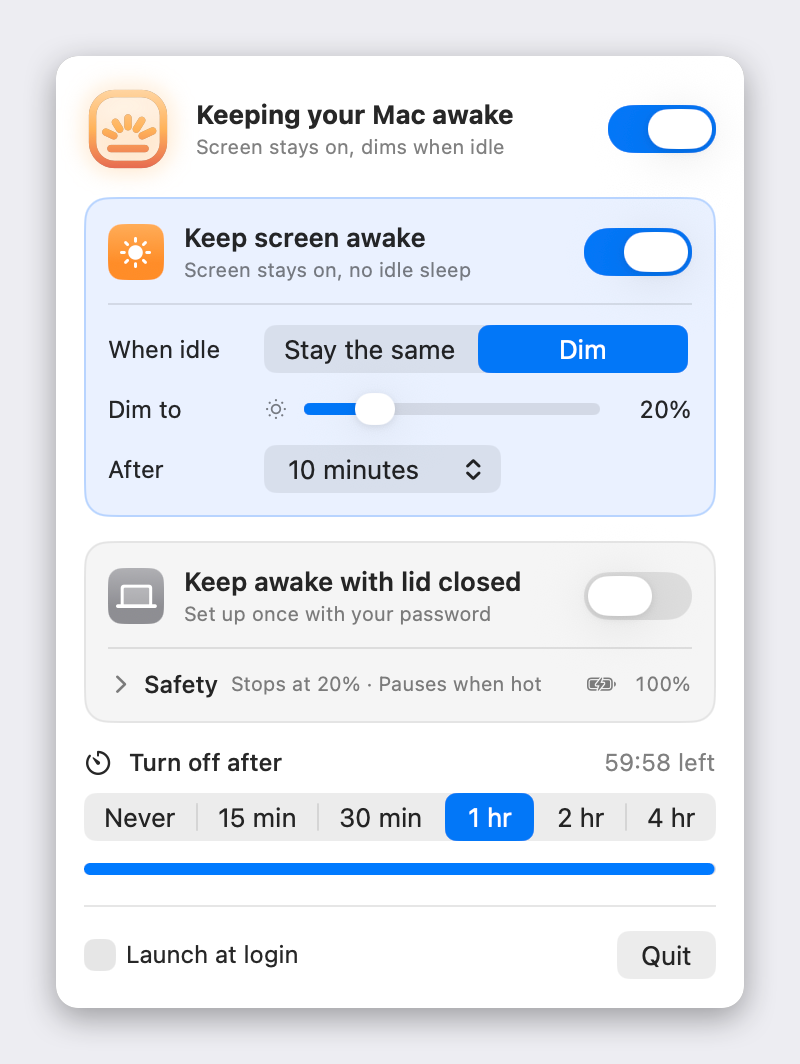
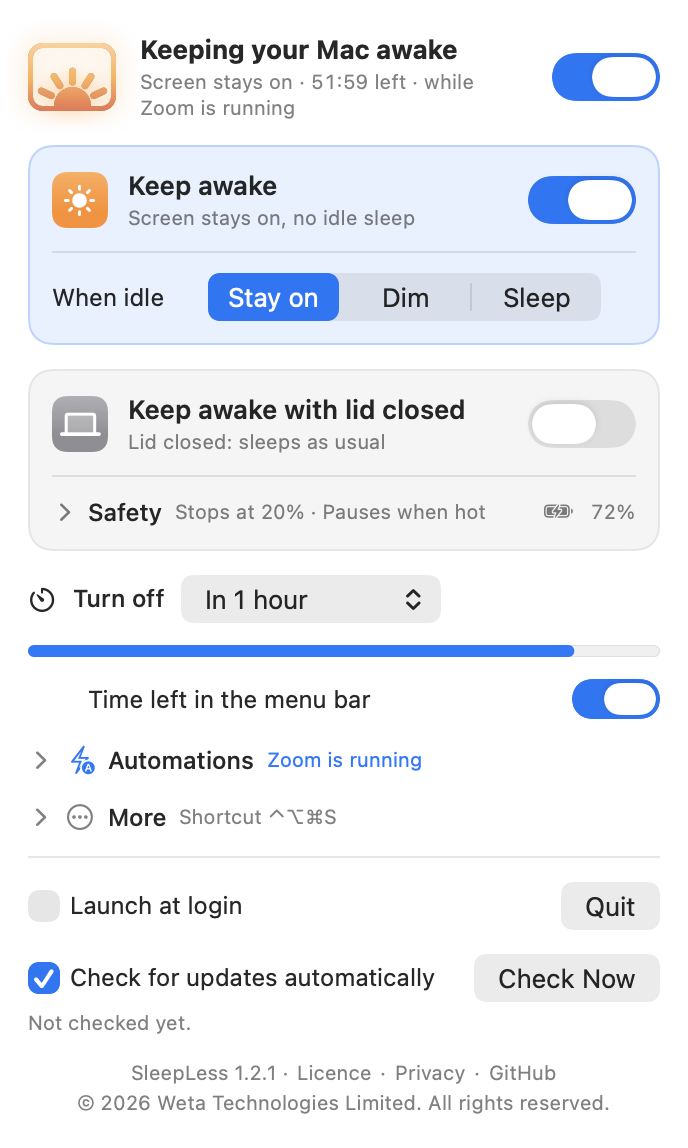
docs: README and site for 1.3; fresh panel, Automations and quick-menu shots
--shots now also renders the Automations and More states and the right-click menu (popped up for a moment and
captured from its own window, flattened onto the window background); --appearance dark|light for live screenshots.

diff --git a/docs/index.html b/docs/index.html
@@ -4,12 +4,12 @@
 <meta charset="utf-8">
 <meta name="viewport" content="width=device-width, initial-scale=1">
 <title>SleepLess — keep your Mac awake, lid open or closed</title>
-<meta name="description" content="SleepLess is a free macOS menu-bar app that keeps your Mac awake with the lid open (optionally dimming the screen) or with the lid closed, with safety cut-offs, an auto-off timer and a watchdog.">
+<meta name="description" content="SleepLess is a free macOS menu-bar app that keeps your Mac awake with the lid open (screen on, dimmed or asleep) or with the lid closed — with automations for apps, power, displays and schedules, a timer that ends after a duration or at a time, a keyboard shortcut, a URL scheme, safety cut-offs and a watchdog.">
 <meta name="color-scheme" content="light dark">
 <meta name="theme-color" content="#0E0F2E">
 <meta property="og:type" content="website">
 <meta property="og:title" content="SleepLess — keep your Mac awake, lid open or closed">
-<meta property="og:description" content="Free macOS menu-bar app. Keep the screen on (or dim it), or keep the Mac awake with the lid closed — safely.">
+<meta property="og:description" content="Free macOS menu-bar app. Keep the Mac awake with the lid open or closed — by hand, on a timer, or automatically while an app runs, on power, with a display or on a schedule.">
 <meta property="og:image" content="https://weta-technologies.github.io/SleepLess/assets/banner.png">
 <meta property="og:url" content="https://weta-technologies.github.io/SleepLess/">
 <meta name="twitter:card" content="summary_large_image">
@@ -147,14 +147,15 @@
 <section id="features">
   <div class="wrap">
     <h2>Everything you need, nothing you don't</h2>
-    <p class="lead">One panel, a handful of switches, and guard rails so it never bites you.</p>
+    <p class="lead">One panel, a handful of switches, automations that mind themselves, and guard rails so it never bites you.</p>
     <div class="grid">
-      <div class="card"><div class="icon">☀</div><h3>Keep screen awake</h3><p>Lid open: the screen never idle-dims or sleeps and the Mac never idle-sleeps — the same assertions as <code>caffeinate -di</code>. No admin rights.</p></div>
-      <div class="card"><div class="icon">🌙</div><h3>Dim while idle</h3><p>Stay the same, or dim to a brightness you pick after 30 s to 10 min. Any key press or mouse move brings your brightness straight back. Never brightens a screen already below the target.</p></div>
+      <div class="card"><div class="icon">☀</div><h3>Keep awake</h3><p>Lid open: the Mac never idle-sleeps — the same assertions as <code>caffeinate -di</code>. No admin rights. When idle the screen can <em>stay on</em>, <em>dim</em> to a brightness you pick after 30 s to 10 min (any key press brings it straight back), or <em>sleep</em> as usual while the Mac keeps going — for overnight downloads and renders.</p></div>
+      <div class="card"><div class="icon">⚡</div><h3>Automations</h3><p>Keep awake by itself while an app is running (a call, a presentation, a build), on the power adapter, with an external display, or on a schedule — overnight windows included. All off by default; the status line says which one is holding, and a click pauses it until its reason ends. No polling, no permissions.</p></div>
       <div class="card"><div class="icon">💻</div><h3>Keep awake with lid closed</h3><p>Sets the one flag that beats lid-close sleep on Apple Silicon (<code>SleepDisabled</code>) through a tiny root helper you set up once — one prompt, your password or Touch ID — and that afterwards updates itself only from signed files. Close the lid and the screen and keyboard light go dark while everything keeps running — no unlock when you open it.</p></div>
       <div class="card"><div class="icon">🛡</div><h3>Safety cut-offs</h3><p>Only while charging. Pause when running hot. Low-battery cutoff (default 20 %). Turn on when you plug in, off when you unplug. All under one <em>Safety</em> disclosure with a one-line summary.</p></div>
-      <div class="card"><div class="icon">⏱</div><h3>Turn off after</h3><p>15 min to 4 hours with a live countdown and progress bar, then everything turns off and normal sleep is back.</p></div>
-      <div class="card"><div class="icon">👆</div><h3>One click on, one click off</h3><p>A quick click on the menu-bar icon turns SleepLess on (bringing back the modes you last had on) or off. Press and hold, or right-click, for the settings panel.</p></div>
+      <div class="card"><div class="icon">⏱</div><h3>Turn off — after, or at a time</h3><p>15 min to 4 hours, or at a time you pick (tomorrow if it has passed). The status line counts down, a progress bar runs, and the time left can sit beside the menu-bar icon. Then everything turns off and normal sleep is back.</p></div>
+      <div class="card"><div class="icon">👆</div><h3>Click, hold, right-click</h3><p>A quick click on the menu-bar icon turns SleepLess on (bringing back the modes you last had on) or off. Press and hold for the settings panel. Right-click for the quick menu: 15 minutes to 4 hours, until a time, indefinitely.</p></div>
+      <div class="card"><div class="icon">⌨</div><h3>Shortcut, Shortcuts, scripts</h3><p>Record a keyboard shortcut that works in any app — no Accessibility permission. Drive it from the Shortcuts app, Raycast or a shell with <code>sleepless://on?minutes=30</code>, <code>on?until=17:30</code>, <code>off</code>, <code>toggle</code>. Optional notifications when a timer ends or a safety rule steps in.</p></div>
       <div class="card"><div class="icon">🐕</div><h3>Watchdog</h3><p>If the app crashes or hangs, the helper restores normal sleep within about two minutes; quitting normally restores it immediately. Your Mac can never get stuck unable to sleep.</p></div>
     </div>
   </div>
@@ -185,10 +186,12 @@
 <section id="panel">
   <div class="wrap">
     <h2>The panel</h2>
-    <p class="lead">Press and hold the menu-bar icon (or right-click it). A status header that says what is happening, a card per mode, the safety rules one click away, and a timer with a live countdown. Light or dark, it follows your Mac — and Reduce Motion, Increase Contrast, the keyboard and VoiceOver.</p>
+    <p class="lead">Press and hold the menu-bar icon. A status header that says what is happening — the mode, the time left, which automation is holding — a card per mode, the timer, and the safety rules, automations and extras each one click away behind a one-line summary. Light or dark, it follows your Mac — and Reduce Motion, Increase Contrast, the keyboard and VoiceOver. Right-click the icon for the quick menu.</p>
     <div class="shots">
-      <figure><div class="frame"><img src="assets/panel-light.png" width="800" height="1064" alt="SleepLess panel in light appearance"></div><figcaption>Light</figcaption></figure>
-      <figure><div class="frame"><img src="assets/panel-dark.png" width="800" height="1064" alt="SleepLess panel in dark appearance"></div><figcaption>Dark</figcaption></figure>
+      <figure><div class="frame"><img src="assets/panel-light.png" width="688" height="1148" alt="SleepLess panel in light appearance"></div><figcaption>Light</figcaption></figure>
+      <figure><div class="frame"><img src="assets/panel-dark.png" width="688" height="1148" alt="SleepLess panel in dark appearance"></div><figcaption>Dark</figcaption></figure>
+      <figure><div class="frame"><img src="assets/automations-light.png" width="688" height="1600" alt="The Automations section of the panel, expanded, light appearance"></div><figcaption>Automations</figcaption></figure>
+      <figure><div class="frame" style="max-width: 442px; margin: 0 auto"><img src="assets/menu-light.png" width="884" height="640" alt="The right-click menu on the menu-bar icon: the current state, Turn On, Keep awake for 15 minutes to 4 hours, Until a time, Indefinitely, Settings and Quit"></div><figcaption>The quick menu (right-click)</figcaption></figure>
     </div>
   </div>
 </section>
@@ -207,10 +210,10 @@
 <pre><code>git clone https://github.com/Weta-Technologies/SleepLess.git
 cd SleepLess
 ./build.sh install</code></pre>
-    <p class="muted">Builds <code>build/SleepLess.app</code>, copies it to <code>/Applications</code> and launches it. Look for the screen-with-a-sunrise icon in the menu bar (if you use Bartender or Ice, or the bar is crowded near the notch, it may be tucked away there). Click it to turn SleepLess on or off; press and hold it, or right-click, for the settings panel. Built from source, the panel offers a one-time setup for the helper behind lid-closed mode (your password or Touch ID, once — the package does this for you); the helper then updates itself from signed files, and SleepLess itself checks GitHub for updates about once a day and installs them from the panel. To uninstall, quit SleepLess, run <code>sudo /bin/sh /Applications/SleepLess.app/Contents/Resources/sleepless-helper.sh uninstall</code> (removes the helper and restores normal sleep) and move the app to the Trash — or <code>./build.sh uninstall</code> from a source checkout.</p>
+    <p class="muted">Builds <code>build/SleepLess.app</code>, copies it to <code>/Applications</code> and launches it. Look for the screen-with-a-sunrise icon in the menu bar (if you use Bartender or Ice, or the bar is crowded near the notch, it may be tucked away there). Click it to turn SleepLess on or off; press and hold it for the settings panel; right-click it for the quick menu. Built from source, the panel offers a one-time setup for the helper behind lid-closed mode (your password or Touch ID, once — the package does this for you); the helper then updates itself from signed files, and SleepLess itself checks GitHub for updates about once a day and installs them from the panel. To uninstall, quit SleepLess, run <code>sudo /bin/sh /Applications/SleepLess.app/Contents/Resources/sleepless-helper.sh uninstall</code> (removes the helper and restores normal sleep) and move the app to the Trash — or <code>./build.sh uninstall</code> from a source checkout.</p>
     <ul class="muted">
-      <li><strong>Test it:</strong> <code>SleepLess.app/Contents/MacOS/SleepLess --selftest</code> checks brightness, assertions, battery and the click logic; <code>./test-helper.sh</code> checks the helper's watchdog with a fake <code>pmset</code>.</li>
-      <li><strong>Privacy:</strong> no analytics; the only network activity is the daily update check (a plain request to GitHub, which you can turn off) and the update you start. Updates are Ed25519-signed and verified before anything is unpacked. The helper only ever runs <code>pmset</code>; any process running as your user could write the request file, but the worst case is a Mac that stays awake, and the watchdog still applies.</li>
+      <li><strong>Test it:</strong> <code>SleepLess.app/Contents/MacOS/SleepLess --selftest</code> checks the click logic, settings migration, the timer clock, schedules, automations and the URL scheme without changing anything on the Mac (<code>--selftest-hardware</code> is the one that nudges brightness and the keyboard light for a second); <code>./test-helper.sh</code> checks the helper's watchdog with a fake <code>pmset</code>.</li>
+      <li><strong>Privacy:</strong> no analytics; the only network activity is the daily update check (a plain request to GitHub, which you can turn off) and the update you start. Updates are Ed25519-signed and verified before anything is unpacked. Automations use only what macOS tells every app (running apps, displays, power, the clock), the shortcut is a system hot key rather than an event tap, notifications are sent only if you turn them on, and the URL scheme accepts nothing but its own few verbs. The helper only ever runs <code>pmset</code>; any process running as your user could write the request file, but the worst case is a Mac that stays awake, and the watchdog still applies.</li>
     </ul>
   </div>
 </section>

diff --git a/Shots.swift b/Shots.swift
@@ -1,10 +1,11 @@
 import AppKit
 import SwiftUI
 
-/// `SleepLess --shots <dir>`: the panel in its main states, light and dark, as PNGs — for the README and polish
-/// passes. Sample state only: no status item, no timers, nothing on the Mac touched; the process exits once the
-/// files are written. The panel's two disclosure keys are set per state and put back afterwards, so run it while
-/// SleepLess is quit (or from a copy with another bundle identifier).
+/// `SleepLess --shots <dir>`: the panel in its main states and the right-click menu, light and dark, as PNGs — for
+/// the README and polish passes. Sample state only: no status item, no timers, nothing on the Mac touched (the menu
+/// shows at the top-left of the screen for half a second); the process exits once the files are written. The
+/// panel's disclosure keys are set per state and put back afterwards, so run it while SleepLess is quit (or from a
+/// copy with another bundle identifier).
 @MainActor enum Shots {
     static func run(dir: String) -> Never {
         _ = NSApplication.shared
@@ -14,29 +15,80 @@ import SwiftUI
         if let m = class_getInstanceMethod(NSApplication.self, #selector(getter: NSApplication.isActive)) {
             method_setImplementation(m, imp_implementationWithBlock({ (_: AnyObject) -> Bool in true } as @convention(block) (AnyObject) -> Bool))
         }
+        let zoom = AppRef(id: "us.zoom.xos", name: "Zoom"), keynote = AppRef(id: "com.apple.iWork.Keynote", name: "Keynote")
         var screen = Settings(); screen.screenOn = true; screen.dims = true
-        var lid = Settings(); lid.lidOn = true; lid.offAfter = 60; lid.offAt = Date().addingTimeInterval(38 * 60)
+        var lid = Settings(); lid.lidOn = true; lid.offAfter = 60; lid.offAt = Date().addingTimeInterval(38 * 60); lid.offFrom = Date().addingTimeInterval(-22 * 60)
+        var auto = Settings(); auto.appsOn = true; auto.apps = [zoom, keynote]; auto.scheduleOn = true; auto.screenSleeps = true
+        var more = Settings(); more.screenOn = true; more.offAtMinute = 17 * 60 + 30; more.offAt = Clock.next(minute: 17 * 60 + 30, after: Date()); more.offFrom = Date()
+        more.timeInMenuBar = true; more.notify = true; more.hotKey = HotKey(keyCode: 1, modifiers: HotKey.carbon([.control, .option, .command]), key: "S"); more.appsOn = true; more.apps = [zoom]
+        var readme = Settings(); readme.screenOn = true; readme.offAfter = 60; readme.offAt = Date().addingTimeInterval(52 * 60); readme.offFrom = Date().addingTimeInterval(-8 * 60)
+        readme.timeInMenuBar = true; readme.appsOn = true; readme.apps = [zoom, keynote]; readme.hotKey = more.hotKey
         let charging = Power.Battery(percent: 72, onAC: true)
-        let states: [(name: String, keeper: Keeper, tip: Bool, safety: Bool)] = [
-            ("setup", Keeper(shots: Settings(), battery: charging, helperReady: false), true, false),
-            ("off", Keeper(shots: Settings(), battery: charging, helperReady: true), false, false),
-            ("screen", Keeper(shots: screen, battery: charging, helperReady: true), false, false),
-            ("lid", Keeper(shots: lid, battery: charging, helperReady: true, lidActive: true), false, true),
-            ("update", Keeper(shots: Settings(), battery: Power.Battery(percent: 18, onAC: false), helperReady: true,
-                              note: "Lid-closed mode turned off: battery at 18%."), false, false),
+        let states: [(name: String, keeper: Keeper, tip: Bool, safety: Bool, automations: Bool, more: Bool)] = [
+            ("readme", Keeper(shots: readme, battery: charging, helperReady: true, reasons: [.app(zoom)]), false, false, false, false),
+            ("setup", Keeper(shots: Settings(), battery: charging, helperReady: false), true, false, false, false),
+            ("off", Keeper(shots: Settings(), battery: charging, helperReady: true), false, false, false, false),
+            ("screen", Keeper(shots: screen, battery: charging, helperReady: true), false, false, false, false),
+            ("lid", Keeper(shots: lid, battery: charging, helperReady: true, lidActive: true), false, true, false, false),
+            ("automations", Keeper(shots: auto, battery: charging, helperReady: true, reasons: [.app(zoom)]), false, false, true, false),
+            ("more", Keeper(shots: more, battery: charging, helperReady: true, reasons: [.app(zoom)]), false, false, false, true),
+            ("update", Keeper(shots: Settings(), battery: Power.Battery(percent: 18, onAC: false), helperReady: true,   // last: the sample offer stays
+                              note: "Lid-closed mode turned off: battery at 18%."), false, false, false, false),
         ]
         let defaults = UserDefaults.standard
-        let kept = ["tapHintSeen", "safetyExpanded"].map { ($0, defaults.object(forKey: $0)) }
+        let keys = ["tapHintSeen", "safetyExpanded", "automationsExpanded", "moreExpanded"]
+        let kept = keys.map { ($0, defaults.object(forKey: $0)) }
         for state in states {
             if state.name == "update" { Updater.shared.offerSample() }
             defaults.set(!state.tip, forKey: "tapHintSeen")
             defaults.set(state.safety, forKey: "safetyExpanded")
+            defaults.set(state.automations, forKey: "automationsExpanded")
+            defaults.set(state.more, forKey: "moreExpanded")
             RunLoop.main.run(until: Date(timeIntervalSinceNow: 1))   // the glyph's sunrise settles
             for dark in [false, true] { write(Panel(keeper: state.keeper), as: "\(state.name)-\(dark ? "dark" : "light")", dark: dark, to: out) }
         }
         for (key, value) in kept { defaults.set(value, forKey: key) }
-        print("Wrote \(states.count * 2) panel shots to \(out.path)")
+        for dark in [false, true] { writeMenu(states[0].keeper, as: "menu-\(dark ? "dark" : "light")", dark: dark, to: out) }
+        print("Wrote \(states.count * 2) panel shots and 2 menu shots to \(out.path)")
         exit(0)
+    }
+
+    /// The right-click menu: popped up at the top-left of the screen for a moment and captured from its own window
+    /// (a process may always capture its own windows), then dismissed.
+    private static var menu: NSMenu?   // the one being captured (a static, so the timer's closure captures nothing)
+
+    private static func writeMenu(_ keeper: Keeper, as name: String, dark: Bool, to dir: URL) {
+        NSApp.appearance = NSAppearance(named: dark ? .darkAqua : .aqua)
+        let menu = StatusMenu(keeper: keeper, openSettings: {}, closed: {}).menu()
+        Self.menu = menu
+        let timer = Timer(timeInterval: 0.5, repeats: false) { _ in
+            MainActor.assumeIsolated {
+                if let image = ownMenuWindowImage() {   // translucent: flattened onto the window background, like the panel shots
+                    let rect = NSRect(x: 0, y: 0, width: image.width, height: image.height)
+                    let rep = NSBitmapImageRep(bitmapDataPlanes: nil, pixelsWide: image.width, pixelsHigh: image.height, bitsPerSample: 8, samplesPerPixel: 4,
+                                               hasAlpha: true, isPlanar: false, colorSpaceName: .deviceRGB, bytesPerRow: 0, bitsPerPixel: 0)!
+                    NSGraphicsContext.saveGraphicsState()
+                    NSGraphicsContext.current = NSGraphicsContext(bitmapImageRep: rep)
+                    NSAppearance(named: dark ? .darkAqua : .aqua)!.performAsCurrentDrawingAppearance { NSColor.windowBackgroundColor.setFill(); rect.fill() }
+                    NSGraphicsContext.current?.cgContext.draw(image, in: rect)
+                    NSGraphicsContext.restoreGraphicsState()
+                    try! rep.representation(using: .png, properties: [:])!.write(to: dir.appendingPathComponent("\(name).png"))
+                }
+                Self.menu?.cancelTracking()
+            }
+        }
+        RunLoop.main.add(timer, forMode: .common)   // fires inside the menu's tracking loop
+        let top = NSScreen.main.map { NSPoint(x: $0.visibleFrame.minX + 24, y: $0.visibleFrame.maxY - 8) } ?? NSPoint(x: 24, y: 900)
+        menu.popUp(positioning: nil, at: top, in: nil)
+        Self.menu = nil
+    }
+
+    /// The image of this process's menu window (the only one at the menu level).
+    private static func ownMenuWindowImage() -> CGImage? {
+        let windows = CGWindowListCopyWindowInfo([.optionOnScreenOnly], kCGNullWindowID) as? [[String: Any]] ?? []
+        let mine = windows.first { ($0[kCGWindowOwnerPID as String] as? Int32) == getpid() && ($0[kCGWindowLayer as String] as? Int) == Int(CGWindowLevelForKey(.popUpMenuWindow)) }
+        guard let id = mine?[kCGWindowNumber as String] as? UInt32 else { return nil }
+        return CGWindowListCreateImage(.null, .optionIncludingWindow, id, [.boundsIgnoreFraming, .bestResolution])
     }
 
     /// Ordered in but off every display, and key: AppKit then draws the controls in their active look.

diff --git a/SleepLess.swift b/SleepLess.swift
@@ -13,6 +13,10 @@ import IOKit.pwr_mgt
         if CommandLine.arguments.contains("--selftest") { selfTest() }
         if CommandLine.arguments.contains("--selftest-hardware") { hardwareSelfTest() }
         if let i = CommandLine.arguments.firstIndex(of: "--shots"), i + 1 < CommandLine.arguments.count { Shots.run(dir: CommandLine.arguments[i + 1]) }
+        // --appearance dark|light: the live app (menu and panel) in one appearance, for screenshots from a copy.
+        if let i = CommandLine.arguments.firstIndex(of: "--appearance"), i + 1 < CommandLine.arguments.count {
+            NSApp.appearance = NSAppearance(named: CommandLine.arguments[i + 1] == "dark" ? .darkAqua : .aqua)
+        }
     }
 
     var body: some Scene {

diff --git a/README.md b/README.md
@@ -16,7 +16,7 @@
   <sub>macOS 13+ · Apple Silicon · free · Weta Technologies Limited · GitHub: <a href="https://github.com/CyborgFingers">CyborgFingers</a></sub>
 </p>
 
-**SleepLess** is a tiny macOS menu-bar app that keeps your Mac awake — with the lid open (optionally dimming the screen) *or* with the lid closed — with sensible safety cut-offs, an auto-off timer, and a helper that can never leave your Mac stuck awake.
+**SleepLess** is a tiny macOS menu-bar app that keeps your Mac awake — with the lid open (screen on, dimmed, or allowed to sleep) *or* with the lid closed — with sensible safety cut-offs, a timer that ends after a duration or at a time, automations that keep it awake while an app runs, on power, with a display or on a schedule, a keyboard shortcut, a URL scheme for Shortcuts and scripts, and a helper that can never leave your Mac stuck awake.
 
 <p align="center">
   <img src="assets/menubar-animation.gif" alt="The SleepLess menu-bar icon, a screen with a sunrise inside: a hollow sun at the bottom when off; the sun rises and five rays fan out when it turns on; the sun lifts into the middle of the screen in lid-closed mode" width="720">
@@ -24,30 +24,37 @@
 
 ## Features
 
-- **Keep screen awake** (lid open) — holds the same power assertions as `caffeinate -di`: the screen never idle-dims or sleeps and the Mac never idle-sleeps. No admin rights needed.
-- **Screen when idle** — *Stay the same*, or *Dim* to a brightness you choose (0–100 %) after an idle delay (right away, 30 s, 1, 2, 5 or 10 min). Any keyboard or mouse input restores your original brightness instantly; so does turning it off or quitting. It never brightens a screen that is already below the target. The keyboard backlight is left alone.
+- **Keep awake** (lid open) — holds the same power assertions as `caffeinate -di`: the screen never idle-dims or sleeps and the Mac never idle-sleeps. No admin rights needed.
+- **When idle** — *Stay on*; *Dim* to a brightness you choose (0–100 %) after an idle delay (right away, 30 s, 1, 2, 5 or 10 min), with any keyboard or mouse input restoring your original brightness instantly (it never brightens a screen that is already below the target, and leaves the keyboard backlight alone); or *Sleep* — the screen sleeps as usual while the Mac stays awake (the system half of the assertions alone, like `caffeinate -i`), for overnight downloads, renders and builds.
 - **Keep awake with lid closed** — the only thing that beats lid-close sleep on Apple Silicon is the `SleepDisabled` flag (`sudo pmset -a disablesleep 1`). SleepLess sets it through a tiny root helper that you set up once — one macOS prompt, your password or Touch ID — and that afterwards updates itself only from files signed by Weta Technologies, so nothing ever asks again. Close the lid and the screen and keyboard backlight go dark while everything keeps running; open it and you're right where you left off — no unlock needed.
 - **Charging light off when closed** — in lid-closed mode, closing the lid switches the MagSafe connector's light off (handy in a dark bedroom); opening it gives the light back to macOS in the right colour. On by default; a switch under *Safety* turns it off.
 - **Safety cut-offs** for lid-closed mode, tucked under a *Safety* disclosure with a one-line summary — *Only while charging*, *Pause when running hot* (thermal state serious/critical), a *Low-battery cutoff* slider (default 20 %, 0 = never) and *Turn on when charging* (follows plug/unplug).
-- **Turn off after** — never, 15 min, 30 min, 1, 2 or 4 hours, with a live countdown and progress bar. When the timer ends everything turns off.
-- **One click on, one click off** — a quick click on the menu-bar icon turns SleepLess on (bringing back the modes you last had on; screen awake by default) or off. Press and hold the icon, or right-click it, for the settings panel.
+- **Turn off** — never, in 15 min, 30 min, 1, 2 or 4 hours, or *at a time* you pick (today if it is still ahead, otherwise tomorrow — DST-safe). The status header counts down, a progress bar runs under the timer, and *Time left in the menu bar* puts the remaining time (1h 12m) beside the icon. When the timer ends everything you switched on turns off; automations keep their own hours.
+- **Automations** — keep the Mac awake by itself *while an app is running* (pick from the apps running now, or any app — a call, a presentation, a build, an export), *on the power adapter*, *with an external display*, or *on a schedule* (days of the week and a window; an end time earlier than the start runs overnight, 0:00 – 0:00 is all day). All off by default, collapsed behind a one-line summary that says which rule is holding right now, and the status header spells it out (*While Zoom is running*). A click on the icon pauses an automation until its reason ends. Event-driven — app launches and quits, displays coming and going — no polling, no permissions.
+- **One click on, one click off** — a quick click on the menu-bar icon turns SleepLess on (bringing back the modes you last had on; screen awake by default) or off. Press and hold the icon for the settings panel; right-click (or ⌃-click) it for the **quick menu**: what SleepLess is doing, Turn On/Off, *Keep awake for* 15 min – 4 hours / *Until a time…* / *Indefinitely*, Settings… and Quit.
+- **Keyboard shortcut** — record any ⌘, ⌃ or ⌥ combination (or a function key) and it does what a click on the icon does, from any app. A system hot key, so no Accessibility permission.
+- **Notifications** — optional: when a timer ends, or a safety rule turns lid-closed mode off. macOS asks for permission only when you turn it on.
+- **Shortcuts & scripts** — `open "sleepless://on?minutes=30"`, `sleepless://on?until=17:30`, `sleepless://on`, `sleepless://off`, `sleepless://toggle`, `sleepless://lid?on=1` — from the Shortcuts app (*Open URLs*), Raycast, Alfred or a shell. Only those verbs and parameters are accepted; values are clamped and anything else is dropped.
 - **Watchdog** — the helper treats a request older than 90 s (app quit, crashed or hung) as "off", so your Mac can never get stuck unable to sleep. Quitting the app restores normal sleep immediately.
 - **Animated menu-bar icon** — a screen with the app icon's sunrise inside. Off is a hollow sun resting on the bottom of the screen. Turn SleepLess on and the sun climbs in and five rays fan out one after another; they breathe slowly while it is on, and it all sets again when it turns off. In lid-closed mode the sun lifts to the middle of the screen as a full disc. It is a template image, so it matches light and dark menu bars; the animation pauses while your screens sleep, and under Reduce Motion it simply switches between still frames.
-- **Launch at login** (on by default after the first launch) and settings that persist.
+- **Launch at login** (on by default after the first launch) and settings that persist — and survive updates: a new version never resets them.
 - **Updates itself** — checks GitHub about once a day (you can turn that off), shows an *Update available* card in the panel and a dot on the icon, and **Update Now** installs the signed update and relaunches with your settings intact. [Details below.](#updates)
-- One panel in the menu bar with a live status header, a card per mode, tooltips on everything and full VoiceOver and keyboard support; it respects Reduce Motion and Increase Contrast. No Dock icon, no analytics, no network beyond the update check.
+- One panel in the menu bar with a live status header (mode · time left · which automation is holding), a card per mode, the timer, and *Automations* and *More* tucked behind one-line summaries; tooltips on everything and full VoiceOver and keyboard support; it respects Reduce Motion and Increase Contrast. No Dock icon, no analytics, no network beyond the update check.
 
 ## Screenshots
 
 | Light | Dark |
 | :---: | :---: |
-| <img src="assets/panel-light.png" alt="SleepLess panel, light appearance" width="376"> | <img src="assets/panel-dark.png" alt="SleepLess panel, dark appearance" width="376"> |
+| <img src="assets/panel-light.png" alt="SleepLess panel, light appearance" width="344"> | <img src="assets/panel-dark.png" alt="SleepLess panel, dark appearance" width="344"> |
+| <img src="assets/automations-light.png" alt="The Automations section expanded, light appearance" width="344"> | <img src="assets/automations-dark.png" alt="The Automations section expanded, dark appearance" width="344"> |
+
+<p align="center"><img src="assets/menu-light.png" alt="The right-click menu on the menu-bar icon: the current state, Turn On, Keep awake for 15 minutes to 4 hours, Until a time, Indefinitely, Settings and Quit" width="442"><br><sub>Right-click (or ⌃-click) the icon for the quick menu.</sub></p>
 
 ## How it works
 
 ### Lid open
 
-*Keep screen awake* creates two IOKit power-management assertions — `PreventUserIdleDisplaySleep` and `PreventUserIdleSystemSleep` — exactly what `caffeinate -di` does. They are released the moment you turn it off or quit. Dimming reads and writes the built-in display's brightness through the same private `DisplayServices` calls the brightness keys use, and watches the idle time of the session to restore it on the first key press or mouse move.
+*Keep awake* creates two IOKit power-management assertions — `PreventUserIdleDisplaySleep` and `PreventUserIdleSystemSleep` — exactly what `caffeinate -di` does (with *Sleep* chosen for the idle screen, only the second one, like `caffeinate -i`). Automations hold the same assertions while their rule is true. They are released the moment you turn it off or quit. Dimming reads and writes the built-in display's brightness through the same private `DisplayServices` calls the brightness keys use, and watches the idle time of the session to restore it on the first key press or mouse move.
 
 ### Lid closed
 
@@ -88,27 +95,29 @@ cd SleepLess
 
 ## First run
 
-- SleepLess lives in the **menu bar** — look for the small screen-with-a-sunrise icon. There is no Dock icon. **Click** the icon to turn SleepLess on or off; **press and hold** it (or right-click / ⌃-click) for the settings panel. The panel shows this tip once.
+- SleepLess lives in the **menu bar** — look for the small screen-with-a-sunrise icon. There is no Dock icon. **Click** the icon to turn SleepLess on or off; **press and hold** it for the settings panel; **right-click** (or ⌃-click) it for the quick menu. The panel shows this tip once.
 - It registers itself as a **login item** on first launch (macOS may show a "background items added" notification). Untick *Launch at login* in the panel if you would rather not.
 - Installed with the package, the helper behind lid-closed mode and the charging light is already set up — the installer's prompt was the one. Built from source, the panel opens with a **one-time setup** card instead: **Set up now** brings one macOS prompt — your password, or Touch ID on Macs that have it — and nothing asks again; **Later** leaves those two features off, each with its own *Set up…* button, until you are ready. (A *Reinstall helper…* link under *Safety* is there if the helper is ever removed.)
 - If you use **Bartender**, **Ice** or a similar menu-bar organiser, or your menu bar is crowded next to the notch, the icon may be hidden — look for it there.
 
 ## Usage
 
-A **quick click** on the menu-bar icon turns SleepLess on or off: on brings back whatever modes you last had on (screen awake the first time), off turns everything off. **Press and hold** the icon, or **right-click** / **⌃-click** it, to open the settings panel; Esc, another click on the icon, or a click anywhere else closes it.
+A **quick click** on the menu-bar icon turns SleepLess on or off: on brings back whatever modes you last had on (screen awake the first time), off turns everything off — and pauses any automation that is holding, until its reason ends. **Press and hold** the icon to open the settings panel; Esc, another click on the icon, or a click anywhere else closes it. **Right-click** (or **⌃-click**) the icon for the quick menu: the current state, Turn On/Off, *Keep awake for* 15 minutes to 4 hours, *Until a time…* (opens the panel with the time picker), *Indefinitely*, Settings… (⌘,) and Quit (⌘Q). The keyboard shortcut you record under *More* is another click on the icon.
 
 | Control | What it does |
 | --- | --- |
-| **Status header** | The big glyph and sentence say what SleepLess is doing right now; its switch is the same on/off as a click on the menu-bar icon. |
-| **Keep screen awake** | Screen stays on and the Mac will not idle-sleep while the lid is open. |
-| **When idle** — *Stay the same* / *Dim* (shown while the mode is on) | With *Dim*, pick the brightness (*Dim to*) and the idle delay (*After*). Brightness returns on the first key press or mouse move. |
+| **Status header** | The big glyph and sentence say what SleepLess is doing right now — the mode, the time left, and which automation is holding (*Screen stays on · 1:12:05 left · while Zoom is running*); its switch is the same on/off as a click on the menu-bar icon. |
+| **Keep awake** | The Mac will not idle-sleep while the lid is open; what the screen does is the next row. |
+| **When idle** — *Stay on* / *Dim* / *Sleep* (shown while the mode is on) | *Stay on*: the screen never dims or sleeps. *Dim*: pick the brightness (*Dim to*) and the idle delay (*After*); brightness returns on the first key press or mouse move. *Sleep*: the screen sleeps as usual, the Mac stays awake. |
 | **Keep awake with lid closed** | Sets `SleepDisabled` through the root helper. Closing the lid turns the screen and keyboard light down to off while the Mac keeps running, without locking. The subtitle shows the real state. |
 | **Safety** (disclosure, with a summary like *Stops at 20 % · Pauses when hot* and the battery level) | The rules below. |
 | **Only while charging** | Lid-closed mode turns off (and refuses to turn on) unless the charger is connected. Disables the battery cutoff, since it is no longer needed. |
 | **Pause when running hot** | Turns lid-closed mode off while the Mac's thermal state is serious or critical. |
 | **Low-battery cutoff** | Turns lid-closed mode off when the battery reaches this level on battery power (default 20 %, 0 = never). |
 | **Turn on when charging** | Turns lid-closed mode on when you plug in and off when you unplug (after the helper has been installed once). A manual flip sticks until the next plug/unplug. |
-| **Turn off after** | *Never*, 15 min – 4 hours: turns *everything* off, with a live countdown and progress bar. Picking a new value restarts the countdown. |
+| **Turn off** | *Never*, *In 15 minutes* – *In 4 hours*, or *At a time* (a time picker appears; today if still ahead, else tomorrow): turns everything you switched on off, with the countdown in the status header and a progress bar. Picking again restarts the countdown. *Time left in the menu bar* shows the remaining time (1h 12m) beside the icon. |
+| **Automations** (disclosure, with a summary like *Zoom, Keynote · Weekdays 9:00 AM – 5:00 PM*, or the rule holding right now) | *While an app is running* — a list of apps with an *Add app* menu of the apps running now (or *Other…* for any app). *On the power adapter*. *With an external display*. *On a schedule* — day buttons and *From* / *to* times (an end at or before the start runs overnight). Each row says when it is keeping the Mac awake, or paused by a click. |
+| **More** (disclosure) | *Keyboard shortcut* — click *Record shortcut*, press the keys (⌘, ⌃ or ⌥ plus a key, or a function key), Esc cancels, × removes it. *Notify me* — when a timer ends or a safety rule turns lid-closed mode off (macOS asks for permission then). *Shortcuts & scripts* — the `sleepless://` commands. |
 | **Launch at login** / **Quit** | Quitting releases the assertions, restores brightness and tells the helper to restore normal sleep straight away. |
 
 Every control has a tooltip, everything works with the keyboard and VoiceOver, and the panel respects Reduce Motion (no shimmer, no transitions) and Increase Contrast.
@@ -154,7 +163,13 @@ If SleepLess is still listed under *System Settings → General → Login Items*
 ./build.sh && build/SleepLess.app/Contents/MacOS/SleepLess --selftest
 ```
 
-checks the brightness round-trip (it briefly nudges brightness by 10 %), that both sleep assertions register, that the battery can be read, the menu-bar click logic (tap / hold / right-click, and what a tap turns on and off), and the updater's pure parts — version ordering (1.10 > 1.9, tags with and without `v`, pre-releases ignored), the release-feed parser, Ed25519 verification with a throwaway key pair (good, tampered, wrong key), and the bundle-swap script on a fake app in a temp folder (a success, and a failure that must put the old app back) — handy after a macOS update, since brightness uses a private API.
+is side-effect-free — it reads (brightness, battery) but changes nothing on the Mac — and checks the menu-bar click logic (tap / hold / right-click, and what a tap turns on and off); the updater's pure parts — version ordering (1.10 > 1.9, tags with and without `v`, pre-releases ignored), the release-feed parser, Ed25519 verification with a throwaway key pair (good, tampered, wrong key), and the bundle-swap script on a fake app in a temp folder (a success, and a failure that must put the old app back); settings migration (a blob exactly as 1.2.1 wrote it keeps every value and takes defaults for the new fields; empty, wrong-typed and newer blobs never reset anything); the timer clock (*at a time* today vs tomorrow, and a DST change that must not add or drop an hour); schedule windows (day boundaries, overnight, all day, a DST day); automations (overlapping reasons in order, the status sentence); the URL scheme against thirty hostile inputs; and the shortcut labels.
+
+```bash
+build/SleepLess.app/Contents/MacOS/SleepLess --selftest-hardware
+```
+
+is the one that **touches the Mac** for about a second — it nudges the screen brightness by 10 % and back, turns the keyboard backlight off and back, and holds the sleep assertions for an instant — to prove the private brightness API and the assertions still work after a macOS update. Run it by hand, never from a script.
 
 ```bash
 ./test-helper.sh
@@ -172,7 +187,11 @@ runs the in-app updater end to end without GitHub: it serves a fake latest-relea
 
 - **No analytics, no accounts.** The only network activity is the [update check](#updates) — a plain request to GitHub for the latest release, about once a day, which you can turn off — and the download you start with Update Now. Nothing about you or your Mac is sent.
 - **Updates are signed.** Every release's `SleepLess.app.zip` carries an Ed25519 signature made with the Weta Technologies publisher key; the app verifies it with the public key compiled in ([`cyborgfingers.pub`](cyborgfingers.pub)) before unpacking, then checks the bundle id, version and code signature of what it unpacked. Nothing from a download ever runs except that verified app.
-- **Brightness** is read and set through the private `DisplayServices` framework (`DisplayServicesGetBrightness` / `DisplayServicesSetBrightness`). Private APIs can change between macOS releases; `--selftest` tells you if they did.
+- **Brightness** is read and set through the private `DisplayServices` framework (`DisplayServicesGetBrightness` / `DisplayServicesSetBrightness`). Private APIs can change between macOS releases; `--selftest-hardware` tells you if they did.
+- **Automations** use only what macOS tells every app anyway — which apps are running (NSWorkspace's launch and quit notifications), whether a display is connected, the power source and the clock. No permission prompts, nothing polled.
+- **The keyboard shortcut** is a system hot key (Carbon `RegisterEventHotKey`), not an event tap: SleepLess sees that one combination and nothing else you type. Recording it refuses plain keys, so a shortcut can never swallow ordinary typing.
+- **Notifications** are sent only if you turn them on, and only for a timer ending or a safety rule turning lid-closed mode off.
+- **The URL scheme** is an input boundary: `sleepless://on|off|toggle|lid` with `minutes=` (1 – 1440), `until=HH:MM` or `on=0|1` and nothing else — unknown verbs, parameters, duplicates, paths and fragments are dropped without doing anything.
 - **The root helper** is a short, readable shell script. It only ever runs `pmset -g` and `pmset -a disablesleep 0|1`, plus `sleepless-led off|on` for the charging light (that tool only ever writes the one SMC key that picks the MagSafe light's colour). It is installed by `/bin/sh sleepless-helper.sh install <user>` after the system's authorization prompt (Authorization Services, `system.privilege.admin` — the same sheet installers use, with Touch ID where macOS offers it), and the app checks that the installed copy is byte-for-byte identical to the one in its bundle before trusting it.
 - **The helper updates itself only from signed files.** When a new version of SleepLess changes it, the app writes its bundle path to a request file; the root helper copies the files into a root-owned folder first, runs its own root-owned verifier (`sleepless-verify`, compiled from [`tools/helper-verify.swift`](tools/helper-verify.swift)) against the root-owned copy of the publisher key — manifest signature, every file's hash, no downgrade — and only then installs them, each with a rename. Anything else is ignored, and the panel offers the setup card instead. The prompt at setup is therefore the only one there will ever be.
 - **The request file** (`/Library/Application Support/SleepLess/lid`) is owned by your user in a root-owned directory. Any process running as your user could write `1` to it. The impact is limited to keeping the Mac awake (with the lid closed) while that process keeps rewriting the file, and the 90 s watchdog still applies. The helper reads only the first byte.
